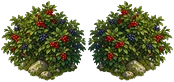
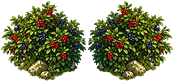
Douze bâtiments illustrés, du peps et de plus grands arbres
Les neuf bâtiments qui manquaient portent leur illustration : archerie,
écurie, atelier de siège, forge, moulin, camp de bûcherons, camp minier,
ferme, tour de guet — même cité, même vue, même fenêtre de bleu pour la
couleur d'équipe. Les 3×3 sont dessinés sur 158 px, les 2×2 sur 108, le
palais sur 172 : un cinquième de plus qu'avant, et les arbres passent de
73 à 95 px — trois cases, un arbre dépasse une maison.

Le « peps » : réduites de 1254 à 150 px, les illustrations sortaient
ternes, et la quantification à 64 couleurs aplatissait les dégradés.
Chaque atlas reçoit après réduction un masque flou léger, +16 % de
saturation et +10 % de contraste, puis un WebP avec pertes (qualité 86)
à l'alpha intact. Les trois bâtiments déjà en place, les arbres, les
baies et l'or sont ré-exportés par la même chaîne.

Le doigt suit la peinture : sous un point, le bâtiment retenu est celui
dont l'image y est opaque et qui est peint en dernier, un chantier ne
comptant que pour la part sortie de terre. Avec douze bâtiments qui se
chevauchent, l'ancienne règle (le premier illustré trouvé) faisait
sélectionner le palais en touchant une maison en chantier à son pied —
le test navigateur l'a pris sur le fait. La suite vérifie la couleur
d'équipe des douze bâtiments (137 vérifications). Cache hors ligne v19.

Claude-Session: https://claude.ai/code/session_017pymgmNLfxNmwW4ryo7pgs

diff --git a/jeu/js/sprites.js b/jeu/js/sprites.js
@@ -18,6 +18,11 @@ import { bruitPeriodique } from './utils.js';
  * case, et `pixel` coupe le lissage : agrandir du pixel art en l'interpolant le
  * transforme en bouillie.
  */
+const batiment = (src, cellW, cellH, largeurMonde) => ({
+  src, cellW, cellH, cases: 1, images: 1, largeurMonde, sol: 0.93, natif: 'bleu',
+  recolorage: { teinte: [200, 255], vers: 0, satMin: 0.32 },
+});
+
 const ATLAS = {
   militia: {
     src: 'assets/milicien-marche.webp',
@@ -38,32 +43,32 @@ const ATLAS = {
     recolorage: 'echange',
   },
   // Bâtiments : une seule image, dessinée sur `largeurMonde` pixels et posée
-  // sur l'emprise par sa ligne de sol (`sol`, fraction de la hauteur). Le
-  // Centre-Ville déborde de son emprise 3×3 : un palais qui se lit de loin, et
-  // un parvis qui empiète sur les cases voisines — les unités marchent dessus.
-  towncenter: {
-    src: 'assets/centre-ville.webp',
-    cellW: 288, cellH: 287, cases: 1, images: 1,
-    largeurMonde: 144, sol: 0.93, natif: 'bleu',
-    // Dômes et bannières sont bleu franc ; la pierre est blanche, l'eau et les
-    // cristaux sont cyan (teinte < 200°) : seule la fenêtre du bleu bascule.
-    recolorage: { teinte: [200, 255], vers: 0, satMin: 0.32 },
-  },
-  // La caserne : même cité, même vue, un peu moins large que le palais — le
-  // Centre-Ville doit rester le plus grand bâtiment de la base.
-  barracks: {
-    src: 'assets/caserne.webp',
-    cellW: 264, cellH: 264, cases: 1, images: 1,
-    largeurMonde: 132, sol: 0.93, natif: 'bleu',
-    recolorage: { teinte: [200, 255], vers: 0, satMin: 0.32 },
-  },
+  // sur l'emprise par sa ligne de sol (`sol`, fraction de la hauteur). Ils
+  // débordent de leur emprise : un palais qui se lit de loin, un parvis qui
+  // empiète sur les cases voisines — les unités marchent dessus. Le Centre-Ville
+  // reste le plus grand ; les 3×3 sont dessinés sur 158 px, les 2×2 sur 108.
+  // Dômes, toits et bannières sont bleu franc ; la pierre est blanche, l'eau
+  // et les cristaux sont cyan (teinte < 200°) : seule la fenêtre du bleu bascule.
+  towncenter: batiment('assets/centre-ville.webp', 344, 343, 172),
+  barracks: batiment('assets/caserne.webp', 316, 315, 158),
+  archery: batiment('assets/archerie.webp', 316, 313, 158),
+  stable: batiment('assets/ecurie.webp', 316, 282, 158),
+  siege: batiment('assets/atelier-siege.webp', 316, 309, 158),
+  blacksmith: batiment('assets/forge.webp', 316, 306, 158),
+  house: batiment('assets/maison.webp', 216, 186, 108),
+  mill: batiment('assets/moulin.webp', 216, 235, 108),
+  lumbercamp: batiment('assets/camp-bucherons.webp', 216, 191, 108),
+  miningcamp: batiment('assets/camp-mineurs.webp', 216, 187, 108),
+  farm: batiment('assets/ferme.webp', 216, 176, 108),
+  tower: batiment('assets/tour-guet.webp', 216, 313, 108),
   // Végétation : six arbres et six buissons, sans couleur d'équipe. Chaque
   // case a son sprite posé au bas, centré : l'ancre est le bas de la case, et
-  // la planche dicte les proportions — l'arbre le plus haut fait 73 px monde.
+  // la planche dicte les proportions — l'arbre le plus haut fait 95 px monde,
+  // trois cases : un arbre doit dépasser une maison.
   arbres: {
     src: 'assets/arbres.webp',
-    cellW: 82, cellH: 146, cases: 6, images: 1,
-    ancreY: 146, hauteurMonde: 73,
+    cellW: 107, cellH: 190, cases: 6, images: 1,
+    ancreY: 190, hauteurMonde: 95,
   },
   // Le buisson à baies : une seule illustration et son miroir, à la taille
   // d'une case — c'est la nourriture, il faut que les baies se voient.
@@ -78,14 +83,6 @@ const ATLAS = {
     src: 'assets/or.webp',
     cellW: 101, cellH: 74, cases: 2, images: 1,
     ancreY: 74, hauteurMonde: 37,
-  },
-  // La maison : emprise 2×2 (64 px), dessinée sur 90 — un dôme de cristal, un
-  // toit, une échoppe ; nettement plus petite qu'une caserne.
-  house: {
-    src: 'assets/maison.webp',
-    cellW: 180, cellH: 155, cases: 1, images: 1,
-    largeurMonde: 90, sol: 0.93, natif: 'bleu',
-    recolorage: { teinte: [200, 255], vers: 0, satMin: 0.32 },
   },
   spearman: {
     src: 'assets/lancier.png',

diff --git a/jeu/js/main.js b/jeu/js/main.js
@@ -67,6 +67,13 @@ export function speedDef(id) {
   return GAME_SPEEDS.find((s) => s.id === id) || GAME_SPEEDS.find((s) => s.id === DEFAULT_SPEED);
 }
 
+/** Le pixel (u, v) de l'atlas est-il opaque ? Une image sans canvas l'est. */
+function pixelOpaque(sprite, u, v) {
+  const image = sprite.variantes.bleu;
+  if (!image.getContext) return true;
+  return image.getContext('2d').getImageData(u | 0, v | 0, 1, 1).data[3] > 40;
+}
+
 class Game {
   constructor(options) {
     this.options = options;
@@ -350,29 +357,33 @@ class Game {
    * à l'écran quel que soit le zoom — la taille d'un bout de doigt.
    */
   /**
-   * Un bâtiment illustré se touche là où on le VOIT : le palais monte bien
-   * au-dessus de son emprise, et personne ne vise le sol. Renvoie le bâtiment
-   * dont l'image contient le point, ou null. Sert de repli quand le test sur
-   * l'emprise n'a rien trouvé : une unité devant le palais garde la priorité.
+   * Le bâtiment illustré visible sous le point monde (x, y), ou null : parmi
+   * ceux dont l'image contient le point — un pixel opaque, et pour un chantier
+   * dans la partie déjà sortie de terre —, le dernier peint dans l'ordre du
+   * peintre : bord nord le plus au sud, puis ordre de création.
    */
   batimentIllustreSous(x, y, playerIndex = null) {
+    let meilleur = null;
     for (const b of this.world.buildings) {
       if (b.dead || (playerIndex !== null && b.playerIndex !== playerIndex)) continue;
+      if (meilleur && b.ty < meilleur.ty) continue;   // peint avant : recouvert
       const s = spriteDe(b.type);
       if (!s) continue;
       const { cellW, cellH, largeurMonde, sol } = s.def;
       const dw = largeurMonde, dh = (cellH / cellW) * dw;
-      const sud = (b.ty + b.size) * TILE;
-      const haut = sud - dh * (sol ?? 1);
-      if (x >= b.x - dw / 2 && x <= b.x + dw / 2 && y >= haut && y <= sud) return b;
+      const dx = b.x - dw / 2, sud = (b.ty + b.size) * TILE, dy = sud - dh * (sol ?? 1);
+      if (x < dx || x >= dx + dw || y < dy || y >= sud) continue;
+      if (!b.complete && y < dy + dh * (1 - Math.max(0.12, b.progressRatio))) continue;
+      if (!pixelOpaque(s, ((x - dx) / dw) * cellW, ((y - dy) / dh) * cellH)) continue;
+      meilleur = b;   // à bord nord égal, le plus récent est peint en dernier
     }
-    return null;
+    return meilleur;
   }
 
   /**
    * Ce qui est réellement sous le doigt, compte tenu des illustrations. Une
-   * unité garde la priorité. Un bâtiment illustré prime sur un bâtiment plat
-   * qu'il recouvre — une ferme au nord du palais est peinte AVANT ses dômes,
+   * unité garde la priorité. Entre bâtiments, celui qu'on voit est celui peint
+   * en dernier : une ferme plate au nord du palais est peinte AVANT ses dômes,
    * le joueur voit les dômes, il veut le palais. `playerIndex` restreint à un
    * camp, comme pour entityAt.
    */
@@ -380,8 +391,11 @@ class Game {
     if (trouve && trouve.kind === 'unit') return trouve;
     const illustre = this.batimentIllustreSous(p.x, p.y, playerIndex);
     if (!illustre) return trouve;
-    if (!trouve || (trouve.kind === 'building' && trouve !== illustre && illustre.ty > trouve.ty)) return illustre;
-    return trouve;
+    if (!trouve || trouve.kind !== 'building' || spriteDe(trouve.type)) return illustre;
+    // Un bâtiment plat sous le doigt : il gagne s'il est peint après l'illustré.
+    const apres = trouve.ty > illustre.ty
+      || (trouve.ty === illustre.ty && this.world.buildings.indexOf(trouve) > this.world.buildings.indexOf(illustre));
+    return apres ? trouve : illustre;
   }
 
   tapTolerance() {

diff --git a/jeu/sw.js b/jeu/sw.js
@@ -1,5 +1,5 @@
 // Service worker : le jeu reste jouable hors ligne une fois chargé.
-const CACHE = 'age-empires-mobile-v18';
+const CACHE = 'age-empires-mobile-v19';
 const ASSETS = [
   './',
   './index.html',
@@ -27,6 +27,15 @@ const ASSETS = [
   './assets/centre-ville.webp',
   './assets/caserne.webp',
   './assets/maison.webp',
+  './assets/archerie.webp',
+  './assets/ecurie.webp',
+  './assets/atelier-siege.webp',
+  './assets/forge.webp',
+  './assets/moulin.webp',
+  './assets/camp-bucherons.webp',
+  './assets/camp-mineurs.webp',
+  './assets/ferme.webp',
+  './assets/tour-guet.webp',
   './assets/sol-herbe.webp',
   './assets/sol-herbe-sombre.webp',
   './assets/sol-terre.webp',

diff --git a/jeu/assets/SOURCES.md b/jeu/assets/SOURCES.md
@@ -7,13 +7,15 @@
 | `defaite.webp` | Le chevalier à terre (dernière image de l'animation de mort) | idem |
 | `chevalier.webp` | Atlas des **huit orientations** du chevalier, style « peint » du milicien | idem |
 | `milicien-marche.webp` | Cycle de marche du chevalier, **huit orientations × huit images** (64 cases de 51×76), style « animé » du milicien | Planche de cycle de marche fournie par l'auteur du dépôt |
-| `centre-ville.webp` | Le **Centre-Ville** : palais à dômes bleus sur son parvis, 288×287, dessiné sur 144 px pour une emprise de 96 | Illustration générée par l'auteur du dépôt, fond plat retiré |
-| `caserne.webp` | La **caserne** : enceinte crénelée, cour d'entraînement, deux tours à dôme, 264×264, dessinée sur 132 px | Illustration générée par l'auteur du dépôt, même chaîne que le Centre-Ville |
+| `centre-ville.webp` | Le **Centre-Ville** : palais à dômes bleus sur son parvis, 344×343, dessiné sur 172 px pour une emprise de 96 | Illustration générée par l'auteur du dépôt, fond plat retiré |
+| `caserne.webp` | La **caserne** : enceinte crénelée, cour d'entraînement, deux tours à dôme, 316×315, dessinée sur 158 px | Illustration générée par l'auteur du dépôt, même chaîne que le Centre-Ville |
 | `sol-herbe.webp`, `sol-herbe-sombre.webp`, `sol-terre.webp`, `sol-sable.webp` | Les quatre **nappes de sol** (herbe, herbe sombre, terre, sable), 384×384, raccordées bord à bord | Planche de six textures générée par l'auteur du dépôt ; deux (herbe sèche, terre sombre) restent en réserve |
-| `arbres.webp` | Six **arbres** (cyprès, sapin, chêne, arbre à frondaison turquoise, saule, arbre noueux), 82×146 par case | Planche générée par l'auteur du dépôt, avec transparence ; ses six buissons fleuris ne sont pas utilisés — ils ne disaient pas « nourriture » |
+| `arbres.webp` | Six **arbres** (cyprès, sapin, chêne, arbre à frondaison turquoise, saule, arbre noueux), 107×190 par case | Planche générée par l'auteur du dépôt, avec transparence ; ses six buissons fleuris ne sont pas utilisés — ils ne disaient pas « nourriture » |
 | `baies.webp` | Le **buisson à baies** rouges et bleues sur son socle, l'originale et son miroir | Illustration générée par l'auteur du dépôt, avec transparence |
 | `or.webp` | Le **gisement d'or** : rochers veinés d'or sur leur socle, 101×74 par case, l'originale et son miroir | Illustration générée par l'auteur du dépôt, avec transparence |
-| `maison.webp` | La **maison** : un dôme de cristal, un toit bleu, une échoppe, 180×155, dessinée sur 90 px pour une emprise de 64 | Illustration générée par l'auteur du dépôt, livrée avec sa transparence |
+| `maison.webp` | La **maison** : un dôme de cristal, un toit bleu, une échoppe, 216×186, dessinée sur 108 px pour une emprise de 64 | Illustration générée par l'auteur du dépôt, livrée avec sa transparence |
+| `archerie.webp`, `ecurie.webp`, `atelier-siege.webp`, `forge.webp` | Les quatre autres bâtiments **3×3** : cibles et râteliers de flèches, box à foin et selles, catapulte sous sa halle, forge à la cheminée fumante — 316 px de large, dessinés sur 158 | Illustrations générées par l'auteur du dépôt, livrées avec leur transparence |
+| `moulin.webp`, `camp-bucherons.webp`, `camp-mineurs.webp`, `ferme.webp`, `tour-guet.webp` | Les cinq autres bâtiments **2×2** : ailes à voiles, billes et haches, galerie et wagonnet, potager et charrette de foin, tour au belvédère — 216 px de large, dessinés sur 108 | idem |
 | `lancier.png` | Atlas des **huit orientations** d'un homme d'armes en pixel art, sprite du lancier | GIF animé fourni par l'auteur du dépôt (48×48, 8 images, fond déjà transparent) |
 
 Ces images viennent d'une planche de référence fournie par l'auteur du dépôt, qui
@@ -108,7 +110,7 @@ Un test le vérifie à chaque exécution : 20 % des pixels sont repeints, **aucu
 pixel d'acier n'est touché** (40 434 sur 40 434 intacts), et il ne reste aucun
 bleu franc côté adverse.
 
-## Le Centre-Ville, la caserne, la maison
+## Les bâtiments
 
 L'illustration est en vue de trois quarts sur une carte vue de dessus — c'est
 exactement le compromis d'Age of Empires, où bâtiments et unités sont dessinés
@@ -117,22 +119,35 @@ bord), part par un remplissage depuis les bords ; le sol peint autour du parvis
 — rochers, buissons, dallage — est conservé : sur l'herbe du jeu, il fait un
 parvis crédible.
 
-Le bâtiment est dessiné **plus grand que son emprise** : 144 px de large pour
+Le bâtiment est dessiné **plus grand que son emprise** : 172 px de large pour
 3 cases (96 px), posé par sa ligne de sol (93 % de la hauteur) sur le bord sud de
 l'emprise. Le palais monte au-dessus des cases situées derrière lui, le parvis
 déborde sur les cases praticables devant — les unités marchent dessus. Pour
 qu'une unité qui longe le mur ne passe jamais *sous* le débord, le rendu classe
 les bâtiments à leur **bord nord** dans l'ordre du peintre, pas à leur centre.
 
-La caserne suit la même chaîne (`decoupe-batiment.py` : fond, cadre, réduction,
-palette, aperçu), dessinée sur 132 px pour rester un peu moins large que le
-palais ; la maison, emprise 2×2, sur 90 px. Le script accepte les deux cas :
-un fond uni à retirer, ou une transparence fournie (renormalisée, le détourage
-automatique laissant un voile d'alpha). Réduits à deux fois la taille dessinée et quantifiés à 64 couleurs avant
-l'encodage WebP sans pertes : **36 Ko** et **29 Ko**. La couleur d'équipe suit la règle du
-chevalier animé — seule la fenêtre du bleu franc (200°–255°) bascule : dômes,
-bannières et auvents passent au rouge, la pierre blanche et l'eau cyan des
-fontaines ne bougent pas. Un test le vérifie pixel à pixel.
+Les onze autres bâtiments suivent la même chaîne (`decoupe-batiment.py` :
+fond, cadre, réduction, peps, aperçu) : les 3×3 sur 158 px pour rester un peu
+moins larges que le palais, les 2×2 (maison, moulin, camps, ferme, tour de
+guet) sur 108. Le script accepte les deux cas : un fond uni à retirer, ou une
+transparence fournie (renormalisée, le détourage automatique laissant un voile
+d'alpha).
+
+Le **peps** (`peps.py`), appliqué à tous les atlas — bâtiments, arbres, baies,
+or — après leur réduction : la réduction de 1254 à 150 px moyenne les pixels et
+lisse les contrastes, et la première chaîne quantifiait à 64 couleurs, ce qui
+aplatissait les dégradés. Trois corrections légères, dans cet ordre : un
+masque flou (rayon 1,4, 55 %), +16 % de saturation, +10 % de contraste ; puis
+un WebP avec pertes (qualité 86) dont l'alpha reste sans pertes. Avant de
+filtrer, la couleur des pixels opaques est étendue sous les pixels
+transparents voisins, sinon le masque flou aspire le fond retiré dans les
+bords. Le palais pèse 71 Ko, un 3×3 une cinquantaine, un 2×2 entre 23 et 33 :
+**490 Ko** pour les douze bâtiments.
+
+La couleur d'équipe suit la règle du chevalier animé — seule la fenêtre du bleu
+franc (200°–255°) bascule : dômes, toits, bannières et auvents passent au
+rouge, la pierre blanche, l'eau cyan des fontaines et les cristaux ne bougent
+pas. Un test le vérifie pixel à pixel pour chacun des douze.
 
 ## Le sol
 
@@ -171,7 +186,7 @@ la simple projection par colonnes agglomérait les arbres, dont les socles de
 rochers et les branches se touchent presque.
 
 Une seule échelle pour toute la planche, qui garde ses proportions : l'arbre
-le plus haut (le cyprès) fait **73 px monde**, soit un chevalier et demi ; les
+le plus haut (le cyprès) fait **73 px monde**, soit deux chevaliers ; les
 buissons tombent autour de 36 px, la taille d'une case. Chaque case d'atlas a
 son sprite posé au bas et centré : l'ancre est le bas de la case, le socle de
 rochers vient s'asseoir sur la case de la carte. Atlas à deux fois la taille
@@ -192,5 +207,5 @@ arbres ont été essayés pour la nourriture : jolis, mais ils ne disaient pas
 
 ## Format
 
-WebP partout où c'est possible : 413 Ko pour l'ensemble, contre bien plus d'un mégaoctet en
+WebP partout où c'est possible : 856 Ko pour l'ensemble, contre bien plus d'un mégaoctet en
 PNG, sans différence visible à l'œil même agrandi trois fois.

diff --git a/jeu/README.md b/jeu/README.md
@@ -3,7 +3,7 @@
 Un jeu de stratégie en temps réel inspiré d'Age of Empires, **jouable au doigt**
 dans n'importe quel navigateur moderne. Pas de moteur de jeu, pas de bibliothèque,
 très peu d'images : ~7 800 lignes de JavaScript, du Canvas 2D, des
-pictogrammes vectoriels et 413 Ko d'illustrations et de textures — dont un cycle de marche
+pictogrammes vectoriels et 856 Ko d'illustrations et de textures — dont un cycle de marche
 complet.
 
 ## Lancer le jeu
@@ -344,27 +344,39 @@ qui se lit n'est pas le détail d'un personnage mais son mouvement ; la peinture
 réduite devient une tache sombre. Elle garde sa place là où elle est vue en
 grand — accueil, portrait, écran de fin.
 
-### Le Centre-Ville est un palais, la caserne une forteresse, la maison une maison
+### Douze bâtiments illustrés, un palais en tête
 
-`assets/centre-ville.webp` (36 Ko) : un palais à dômes bleus, tridents dorés et
-fontaines, sur son parvis. Il est dessiné **plus grand que son emprise** — 144 px
-pour trois cases — et posé par sa ligne de sol sur le bord sud : le palais monte
-au-dessus des cases situées derrière, le parvis déborde devant, sur les cases
-praticables, où les unités marchent. C'est le compromis d'Age of Empires : des
-bâtiments de trois quarts sur un sol vu de dessus.
+Tous les bâtiments portent une illustration (`assets/*.webp`, 490 Ko pour les
+douze) : un palais à dômes bleus pour le Centre-Ville, une forteresse pour la
+caserne, puis archerie, écurie, atelier de siège, forge, maison, moulin, camp de
+bûcherons, camp minier, ferme et tour de guet — même cité, même vue de trois
+quarts, mêmes tridents. Ils sont dessinés **plus grands que leur emprise** —
+172 px pour le palais, 158 pour les autres 3×3, 108 pour les 2×2 (64 px) — et
+posés par leur ligne de sol sur le bord sud : le bâtiment monte au-dessus des
+cases situées derrière, le parvis déborde devant, sur les cases praticables, où
+les unités marchent. C'est le compromis d'Age of Empires : des bâtiments de
+trois quarts sur un sol vu de dessus.
 
 Deux détails de rendu qui comptent : les bâtiments sont classés à leur **bord
 nord** dans l'ordre du peintre (pas à leur centre), pour qu'une unité qui longe
 le mur passe toujours devant le débord ; et un chantier **sort de terre** — on
 ne révèle l'illustration que jusqu'à la hauteur atteinte, parvis d'abord, murs
-ensuite, dômes à la fin. Le Centre-Ville adverse est le même fichier passé au
-rouge par la fenêtre de teinte du chevalier : dômes et bannières changent de
+ensuite, dômes à la fin. Un bâtiment adverse est le même fichier passé au rouge
+par la fenêtre de teinte du chevalier : dômes, toits et bannières changent de
 camp, la pierre blanche et l'eau des fontaines restent.
 
-La **caserne** (`caserne.webp`, 29 Ko) suit la même chaîne : enceinte crénelée,
-cour d'entraînement, deux tours à dôme, dessinée sur 132 px — un peu moins que
-le palais, qui doit rester le plus grand bâtiment de la base. Les dix autres
-bâtiments gardent leur rendu dessiné au code, comme les cinq unités sans planche.
+Le doigt suit la peinture : sous un point, le bâtiment retenu est celui dont
+l'image y est **opaque** et qui est peint en dernier — un chantier ne compte que
+pour la part déjà sortie de terre. Sans cela, avec douze bâtiments qui se
+chevauchent, toucher une maison en chantier au pied du palais sélectionnait le
+palais ; le test navigateur l'a pris sur le fait.
+
+Le « peps » : réduites de 1254 à 150 px, les illustrations sortaient ternes, et
+la quantification à 64 couleurs de la première chaîne aplatissait les dégradés.
+Chaque atlas reçoit désormais, après réduction, un masque flou léger, +16 % de
+saturation et +10 % de contraste, puis un WebP avec pertes (qualité 86) à
+l'alpha intact ; les arbres passent de 73 à 95 px de haut — trois cases, un
+arbre dépasse une maison. La chaîne est décrite dans `assets/SOURCES.md`.
 
 ### Le sol est une nappe, pas un damier
 
@@ -409,7 +421,7 @@ en jeu, mesurée puis éliminée.
 
 Six essences d'arbres, un buisson à baies et un gisement d'or
 (`assets/arbres.webp`, `baies.webp`, `or.webp`), à une seule échelle qui garde
-les proportions des planches : le cyprès fait un chevalier et demi, un buisson
+les proportions des planches : le cyprès fait deux chevaliers, un buisson
 ou un rocher tient dans sa case. Plus hauts que leur case, ils entrent dans l'**ordre du peintre** avec les
 unités et les bâtiments : une unité passe derrière un arbre quand elle est
 derrière, devant quand elle est devant. Un gisement qui s'épuise rapetisse un
